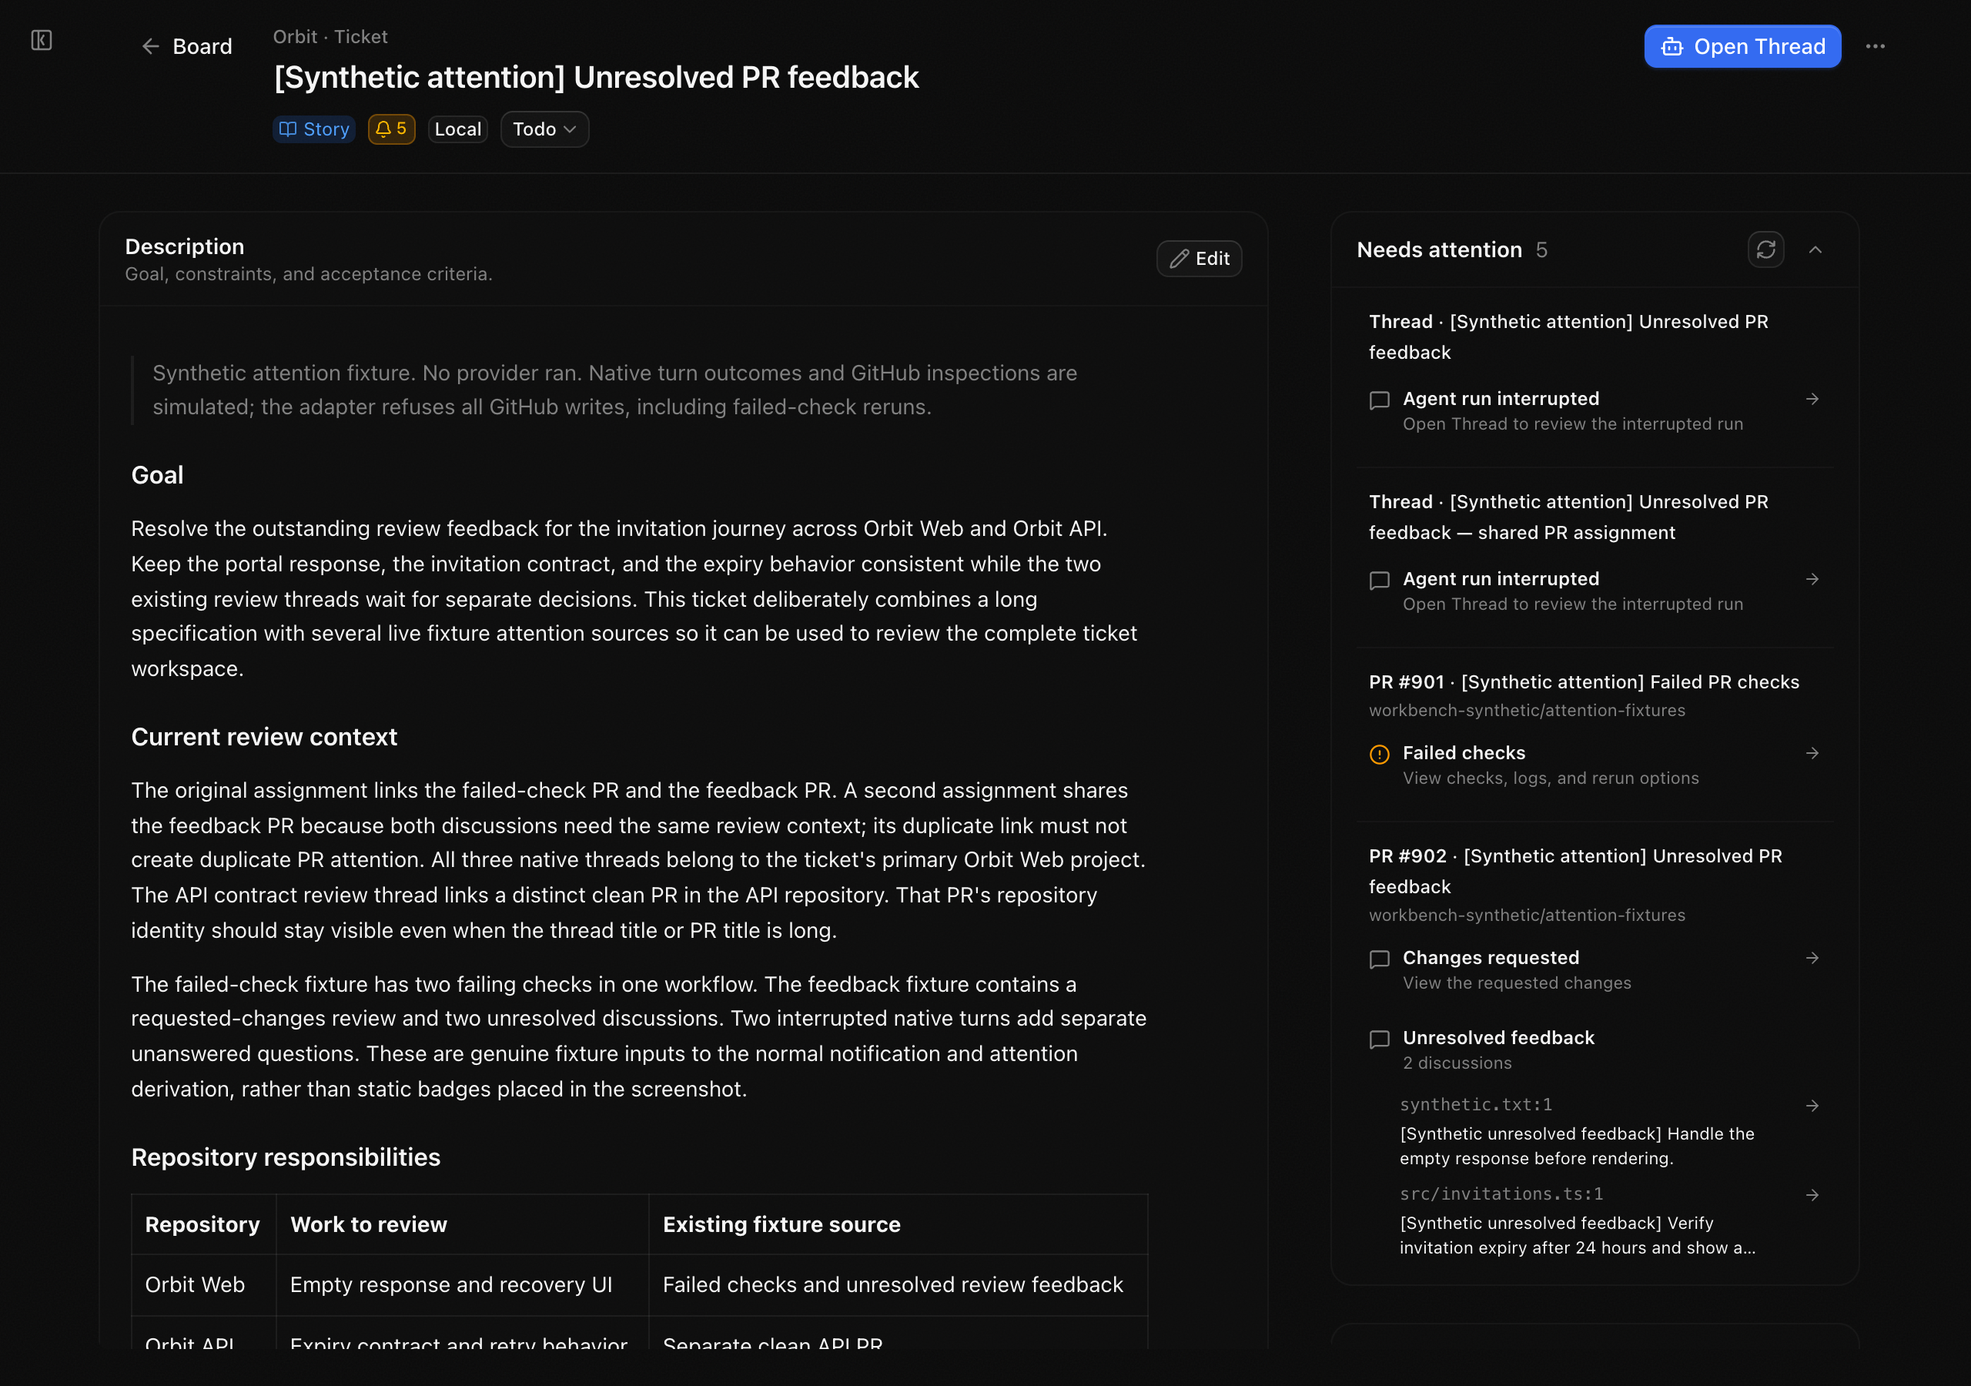
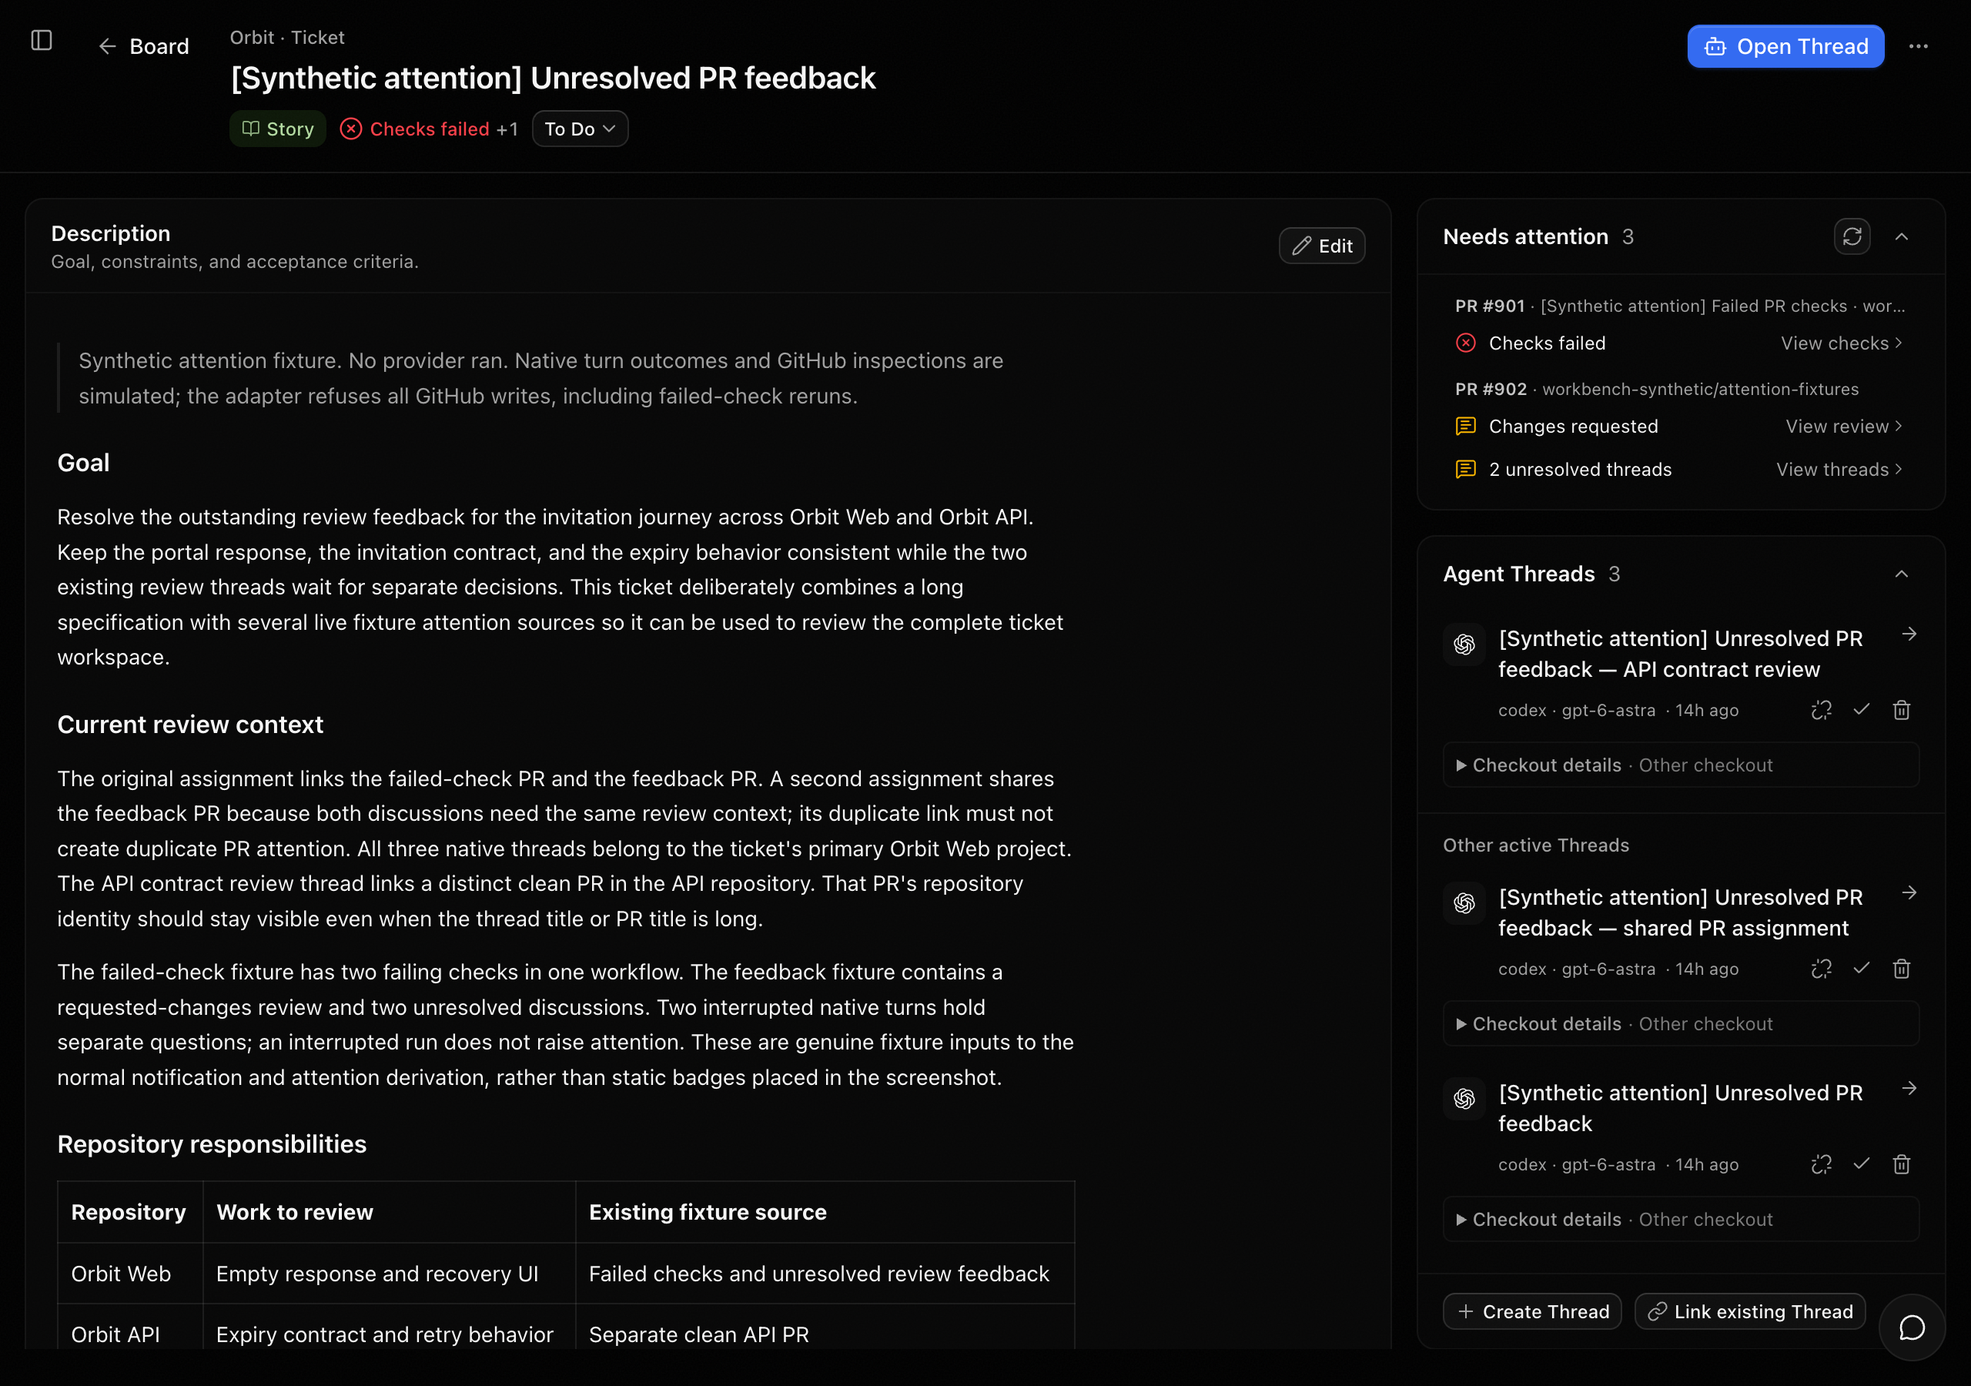
docs(workbench): refresh the guide, screenshots, and site for the floating chats
Describe the board and ticket chats in their own guide section: Thread
switching, recaps, the need-you pill, new-Thread actions, and board drafts
with Cancel, Discard, Create ticket, and Start work. Fix the stale Show chat
and Group by labels.

Recapture every screenshot in dark and light at 2560 x 1800 and add the board
chat, ticket chat, and board draft. Retheme the Workbench site with T3 Code's
default light and dark tokens, and add a Chat walkthrough step and section.

diff --git a/apps/workbench-site/src/styles/t3-theme.css b/apps/workbench-site/src/styles/t3-theme.css
@@ -1,0 +1,71 @@
+/* T3 Code's default light and dark theme (apps/web/src/index.css, new design on), resolved to sRGB.
+ * Keep exactly one :root.dark block: index.astro copies it into a <noscript> prefers-color-scheme rule. */
+
+:root {
+  color-scheme: light;
+  --font-ui: -apple-system, BlinkMacSystemFont, "Inter Variable", "Segoe UI", system-ui, sans-serif;
+  --color-bg: #fcfcfc;
+  --color-surface: #ffffff;
+  --color-surface-raised: #ffffff;
+  --color-surface-muted: #f4f4f5;
+  --color-text: #18181b;
+  --color-muted: #71717b;
+  --color-link: #1b4ed8;
+  --color-accent: #1b4ed8;
+  --color-focus: #1b4ed8;
+  --color-border: #d4d4d8;
+  --color-border-subtle: #e4e4e7;
+  --color-button-bg: var(--color-accent);
+  --color-button-text: #ffffff;
+  --color-button-hover: #325fdc;
+  --color-input-bg: var(--color-surface);
+  --color-input-text: var(--color-text);
+  --color-input-border: var(--color-border);
+  --color-input-placeholder: var(--color-muted);
+  --color-row-hover: #f4f4f5;
+  --color-row-selected: #e4e4e7;
+  --color-row-selected-text: var(--color-text);
+  --color-code: var(--color-surface-muted);
+  --color-code-text: var(--color-text);
+  --color-progress: var(--color-accent);
+  --radius-control: 0.5rem;
+  --radius-panel: 0.75rem;
+  --text-3xl: 32px;
+  --text-reading: 16px;
+  --text-display: 56px;
+  --text-display-sm: 38px;
+  --tracking-tight: -0.01em;
+  --space-20: 80px;
+  --space-24: 96px;
+  --row: 36px;
+  --page-wide: 1120px;
+}
+
+:root.dark {
+  color-scheme: dark;
+  --color-bg: #000000;
+  --color-surface: #111111;
+  --color-surface-raised: #111111;
+  --color-surface-muted: #1e1e1e;
+  --color-text: #f5f5f5;
+  --color-muted: #a1a1a1;
+  --color-link: #50a2ff;
+  --color-accent: #346bf1;
+  --color-focus: #346bf1;
+  --color-border: #2b2b2b;
+  --color-border-subtle: #242424;
+  --color-button-bg: var(--color-accent);
+  --color-button-text: #ffffff;
+  --color-button-hover: #2f60d9;
+  --color-input-bg: var(--color-surface);
+  --color-input-text: var(--color-text);
+  --color-input-border: var(--color-border);
+  --color-input-placeholder: var(--color-muted);
+  --color-row-hover: #1a1a1a;
+  --color-row-selected: #262626;
+  --color-row-selected-text: var(--color-text);
+  --color-code: var(--color-surface);
+  --color-code-text: var(--color-text);
+  --color-progress: var(--color-accent);
+  --shadow-dialog: 0 8px 24px rgb(0 0 0 / 60%), 0 0 0 1px var(--color-border);
+}

diff --git a/apps/workbench-site/tests/no-js.spec.ts b/apps/workbench-site/tests/no-js.spec.ts
@@ -7,7 +7,7 @@ import { test, expect } from "@playwright/test";
     await page.goto("/t3code/");
     await expect(page.getByRole("tablist")).toHaveCount(0);
     const frames = page.locator("[data-walkthrough-frame]");
-    await expect(frames).toHaveCount(6);
+    await expect(frames).toHaveCount(7);
     for (const frame of await frames.all()) await expect(frame).toBeVisible();
     await expect(page.locator(".hero-media img")).toHaveAttribute("srcset", /480w/);
     await expect(page.locator(".hero-media [data-product-image]:visible")).toHaveAttribute(
@@ -32,7 +32,7 @@ test("static deep links reach content after all screenshot panels", async ({ pag
 test("no-JavaScript system appearance uses the public page palette", async ({ page }) => {
   await page.emulateMedia({ colorScheme: "light" });
   await page.goto("/t3code/");
-  await expect(page.locator("body")).toHaveCSS("background-color", "rgb(244, 245, 248)");
+  await expect(page.locator("body")).toHaveCSS("background-color", "rgb(252, 252, 252)");
   await expect
     .poll(() =>
       page
@@ -41,7 +41,7 @@ test("no-JavaScript system appearance uses the public page palette", async ({ pa
     )
     .toMatch(/board-light[.]/);
   await page.emulateMedia({ colorScheme: "dark" });
-  await expect(page.locator("body")).toHaveCSS("background-color", "rgb(21, 22, 25)");
+  await expect(page.locator("body")).toHaveCSS("background-color", "rgb(0, 0, 0)");
   await expect(page.locator("html")).toHaveCSS("color-scheme", "dark");
   await expect
     .poll(() =>
@@ -57,5 +57,5 @@ test("no-JavaScript system appearance uses the public page palette", async ({ pa
   await expect(page).toHaveURL(darkOriginal);
   await page.goBack();
   await page.emulateMedia({ colorScheme: "light" });
-  await expect(page.locator("body")).toHaveCSS("background-color", "rgb(244, 245, 248)");
+  await expect(page.locator("body")).toHaveCSS("background-color", "rgb(252, 252, 252)");
 });

diff --git a/apps/workbench-site/src/App.vue b/apps/workbench-site/src/App.vue
@@ -15,6 +15,7 @@ const { images, walkthrough, base, repository, guide, downloads } = defineProps<
   images: {
     board: ProductImageDescriptor;
     workspace: ProductImageDescriptor;
+    boardChat: ProductImageDescriptor;
     pullRequest: ProductImageDescriptor;
   };
   walkthrough: readonly WalkthroughStep[];
@@ -134,6 +135,29 @@ onUnmounted(() => {
                 :steps="walkthrough"
                 @open="openImage"
               />
+            </div>
+          </section>
+
+          <section class="section chat-section" aria-labelledby="chat-heading" data-trace-section>
+            <CommitBranch lane="parallel" />
+            <div class="section-body">
+              <div class="section-copy">
+                <h2 id="chat-heading">Chat with Ticket Threads from the Board</h2>
+                <p>
+                  The Board's chat lists the Threads of the Workspace's Tickets and drafts. Start a
+                  ticket draft there, plan it, and create the Ticket without leaving the Board.
+                </p>
+              </div>
+              <figure class="media-stage">
+                <ProductImage :image="images.boardChat" @open="openImage" />
+              </figure>
+              <div class="section-copy">
+                <p>
+                  When other Threads wait for your approval or input, or their run failed, the chat
+                  shows how many. Select the count to open the menu on the first of them.
+                </p>
+              </div>
+              <a class="text-link" :href="`${guide}#chat-with-threads`">Chat guide</a>
             </div>
           </section>
 

diff --git a/apps/workbench-site/tests/site.spec.ts b/apps/workbench-site/tests/site.spec.ts
@@ -169,7 +169,7 @@ test("tabs support keyboard controls and retained original screenshot links", as
   await expect(page.getByRole("tab", { name: "Notifications", exact: true })).toBeFocused();
   await page.keyboard.press("Home");
   await expect(first).toBeFocused();
-  expect(await page.locator("[data-walkthrough-frame]").count()).toBe(6);
+  expect(await page.locator("[data-walkthrough-frame]").count()).toBe(7);
   for (const link of await page.locator("[data-product-image]").all())
     await expect(link).toHaveAttribute("href", /\/t3code\/_astro\/.*\.png$/);
 });

diff --git a/apps/workbench-site/src/styles/site.css b/apps/workbench-site/src/styles/site.css
@@ -3,7 +3,7 @@
 @import "tailwindcss/utilities.css" source(none);
 @import "@filipgutica/ui/theme.css";
 @import "@filipgutica/ui/components.css";
-@import "@filipgutica/ui/themes/graphite-indigo.css";
+@import "./t3-theme.css";
 @import "@filipgutica/ui/site.css";
 
 :root {
@@ -111,6 +111,7 @@ nav.section-nav {
 nav.section-nav a {
   display: inline-flex;
   align-items: center;
+  justify-content: center;
   min-height: var(--control-lg);
   min-width: var(--control-lg);
   color: var(--text-muted);

diff --git a/apps/workbench-site/src/sections.ts b/apps/workbench-site/src/sections.ts
@@ -1,6 +1,7 @@
 export const sections = [
   { id: "hero-heading", label: "Overview" },
   { id: "walkthrough-heading", label: "Walkthrough" },
+  { id: "chat-heading", label: "Chat" },
   { id: "scope-heading", label: "Workspaces" },
   { id: "review-heading", label: "Review" },
 ] as const;

diff --git a/docs/user/agent-workbench.md b/docs/user/agent-workbench.md
@@ -10,12 +10,12 @@ no dedicated Workbench mobile interface yet.
 
 <picture>
   <source media="(prefers-color-scheme: light)" srcset="./media/workbench/board-light.png">
-  <img src="./media/workbench/board.png" alt="Beacon Board with a saved draft above Tickets across Todo, In Progress, and Done.">
+  <img src="./media/workbench/board.png" alt="Beacon Board with Tickets across To Do, In Progress, and Done, and the board chat below.">
 </picture>
 
 The screenshots use fictional Orbit and Beacon projects in an isolated demo.
-Planning conversations and prepared Git worktrees are real. PR feedback and
-implementation outcomes are illustrative; they do not show completed product work.
+Planning conversations, recaps, and prepared Git worktrees are real. PR feedback
+and implementation outcomes are illustrative; they do not show completed product work.
 
 For a tabbed overview, open the [screenshot walkthrough](https://filipgutica.github.io/t3code/#walkthrough-heading).
 
@@ -57,16 +57,8 @@ sidebar. Open it to resume its conversation and saved fields. Choose **New Ticke
 to explore another idea in a separate draft. Planning conversations stay in
 Workbench until you start work.
 
-**Create manually** opens the form when you already know the requirements.
-
-To plan without leaving the Board, use the chat in its lower-right corner. It
-lists the Threads of the Workspace's Tickets and drafts. At the
-end of its Thread menu, choose **New ticket draft** to start a planning conversation
-there, or **New Thread on** the open Thread's Ticket to start another Thread for that
-Ticket. A draft offers **Create ticket** and then **Start work**, and keeps the same
-Thread throughout. **Cancel** removes a
-draft you have not used yet and returns to the Thread you had open. Choose **Open
-full Thread** to edit its fields.
+**Create manually** opens the form when you already know the requirements. To plan
+without leaving the Board, start a draft from its chat; see [Chat with Threads](#chat-with-threads).
 
 Creating the Ticket keeps the same conversation for further planning. Choose
 **Start work** when ready to prepare its work area and continue that Thread in the
@@ -143,18 +135,53 @@ or Ticket links to return to the work, or choose **Back to Threads** to restore 
 regular T3 sidebar. The command palette also offers **Open Workbench**, **New
 Ticket** for the current Workspace, and **Back to Ticket** from a linked Thread.
 
-To talk to a Ticket's Threads without leaving the Ticket, use the ticket chat in its
-bottom-right corner. Its header shows the open Thread; select it to switch between the
-Ticket's Threads, find settled and archived ones, or choose **New Thread**. After a
-Thread finishes a run, the menu can show a short recap of it, and Threads on the same
-Ticket read each other's recaps so they know what the others are doing. When other
-Threads wait for your approval or input, or their run failed, **N need you** opens the
-menu on the first of them. A Thread you create from the Ticket opens here. Select the message field
-to expand the conversation, or choose **Show ticket chat** in the command palette.
-Drag the chat's left edge, top edge, or top-left corner to resize it. The chat leaves out the Thread's side panels:
-opening a file or diff from it, or choosing **Open full Thread**, opens the Thread itself.
-The ticket chat is not available on narrow screens or while a Ticket is still being
-planned.
+Workbench sidebar Thread rows offer the same pin and snooze actions as native Threads.
+
+## Chat with Threads
+
+The Board and each Ticket have a chat in the lower-right corner. The board chat
+lists the Threads of the Workspace's Tickets and drafts. The ticket chat lists that
+Ticket's Threads. Use it to follow and answer agents without leaving the page.
+
+- Select the open Thread's name to switch Threads, search them, or find settled and
+  archived ones.
+- After a Thread finishes a run, the menu can show a short recap of it. Threads on
+  the same Ticket read each other's recaps so they know what the others are doing.
+- When other Threads wait for your approval or input, or their run failed, **N need
+  you** opens the menu on the first of them.
+- Select the message field to expand the conversation, or choose **Show chat** in
+  the command palette. Drag the chat's left edge, top edge, or top-left corner to
+  resize it.
+
+<picture>
+  <source media="(prefers-color-scheme: light)" srcset="./media/workbench/ticket-chat-light.png">
+  <img src="./media/workbench/ticket-chat.png" alt="Ticket chat whose Thread menu shows one Thread waiting for approval, another with its recap, and New Thread.">
+</picture>
+
+New-Thread actions end the Thread menu. In the ticket chat, **New Thread** starts
+another Thread on the Ticket, and it opens in the chat. In the board chat, **New
+Thread on** starts one on the open Thread's Ticket, and **New ticket draft** starts
+a planning conversation.
+
+<picture>
+  <source media="(prefers-color-scheme: light)" srcset="./media/workbench/board-chat-light.png">
+  <img src="./media/workbench/board-chat.png" alt="Board chat whose Thread menu shows recaps, a Ticket's two Threads, a Thread waiting for approval, and the new-Thread actions.">
+</picture>
+
+A board draft plans the same way as **New Ticket** and runs in Auto. Apply the
+proposal, then choose **Create ticket** and **Start work**; the same Thread continues
+throughout. **Cancel** removes a draft you have not used yet and returns to the Thread
+you had open. Once you have used the draft, **Discard** removes it after you confirm. Choose **Open full Thread** to edit the draft's fields.
+
+<picture>
+  <source media="(prefers-color-scheme: light)" srcset="./media/workbench/board-draft-light.png">
+  <img src="./media/workbench/board-draft.png" alt="Board chat with a ticket draft's proposal applied, offering Discard and Create ticket.">
+</picture>
+
+The chat leaves out the Thread's side panels: opening a file or diff from it, or
+choosing **Open full Thread**, opens the Thread itself. The chat is not available on
+narrow screens, and a Ticket that is still being planned shows its conversation in
+the page instead.
 
 ## Follow progress and review results
 
@@ -192,7 +219,7 @@ remain until the checks or review feedback are resolved.
 
 <picture>
   <source media="(prefers-color-scheme: light)" srcset="./media/workbench/notifications-light.png">
-  <img src="./media/workbench/notifications.png" alt="A Ticket's attention list showing interrupted runs, failed checks, requested changes, and unresolved PR discussions.">
+  <img src="./media/workbench/notifications.png" alt="A Ticket's attention list showing failed checks, requested changes, and unresolved PR threads.">
 </picture>
 
 The Ticket's **Pull Requests** section collects PRs reported by linked Threads and
@@ -222,7 +249,7 @@ menu when needed; the summary does not replace the full description sent to the
 agent.
 
 Choose **New Epic** from the Workspace actions menu, assign related Tickets, and
-use the Board's **Group** toggle to show Epic swimlanes. On desktop, drag
+set the Board's **Group by** to **Epic** to show Epic swimlanes. On desktop, drag
 Tickets between status columns.
 
 Archive a Ticket to hide it from the active Board, or restore it from

diff --git a/apps/workbench-site/README.md b/apps/workbench-site/README.md
@@ -20,19 +20,23 @@ the preview and full-size lightbox follow the shared System/Light/Dark choice. C
 display width so text stays clear on Retina displays. Keep source screenshots
 free of pairing URLs and private data.
 
-For T3 Browser captures, maximize the panel so the viewport fits without scaling,
-then use the toolbar's **Capture screenshot** action to save the native-resolution
-PNG. Automation snapshots are capped at 1280 pixels. Check the saved dimensions
+Capture from a Workbench demo in a browser context with a 1280 × 900 viewport and a
+device scale factor of 2, which gives 2560 × 1800 PNGs. Switch light and dark by
+emulating the color scheme; the app follows the system theme. Check the saved dimensions
 and text at 1:1 before replacing both the site and user-guide images; keep the
-pointer outside the page and close popovers that expose local paths.
+pointer outside the page, clear focus rings, and close popovers that expose local paths.
 
 The walkthrough starts with a native planning conversation and editable draft.
-It then shows the saved Ticket, prepared work area, and continuation of the same
-Thread. A second demo Ticket demonstrates linked PRs and attention.
+It then shows the saved Ticket, prepared work area, continuation of the same
+Thread, and the ticket chat with a recap and a Thread waiting for approval. A second
+demo Ticket demonstrates linked PRs and attention.
 Readers select each screenshot with tabs; arrow keys, Home, and End move between
 them. Without JavaScript, all steps remain visible. Each screenshot opens in the
 existing lightbox. The planning conversation is real; it does not show completed implementation work.
 Demo PR feedback and implementation outcomes are illustrative.
+
+The palette in `src/styles/t3-theme.css` mirrors T3 Code's default light and dark theme
+so the page matches the screenshots. Update it when that theme changes.
 
 The theme switch shares its `tool-site-theme` setting with the annoterm, wtree, and devps sites, which are served from the same origin.
 
